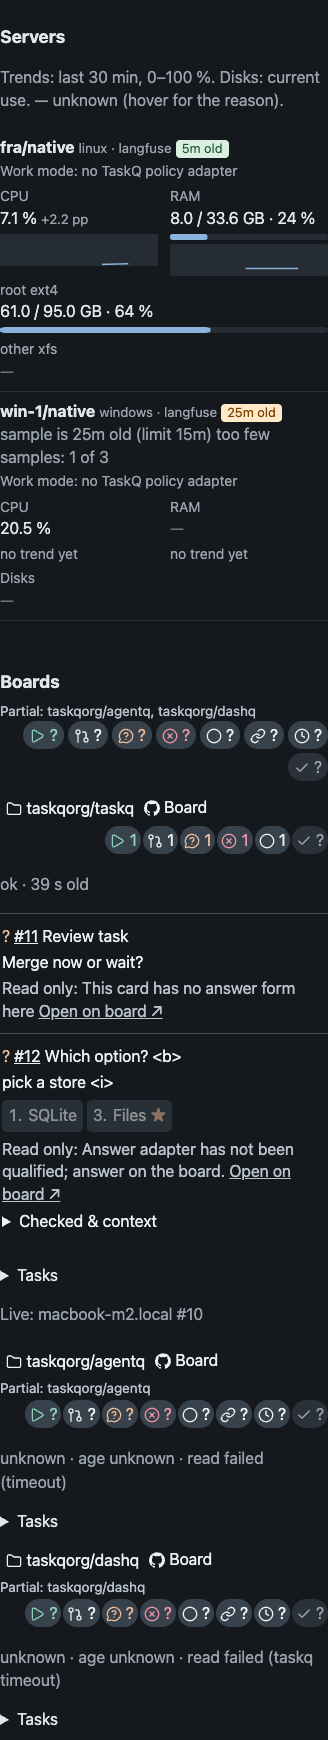
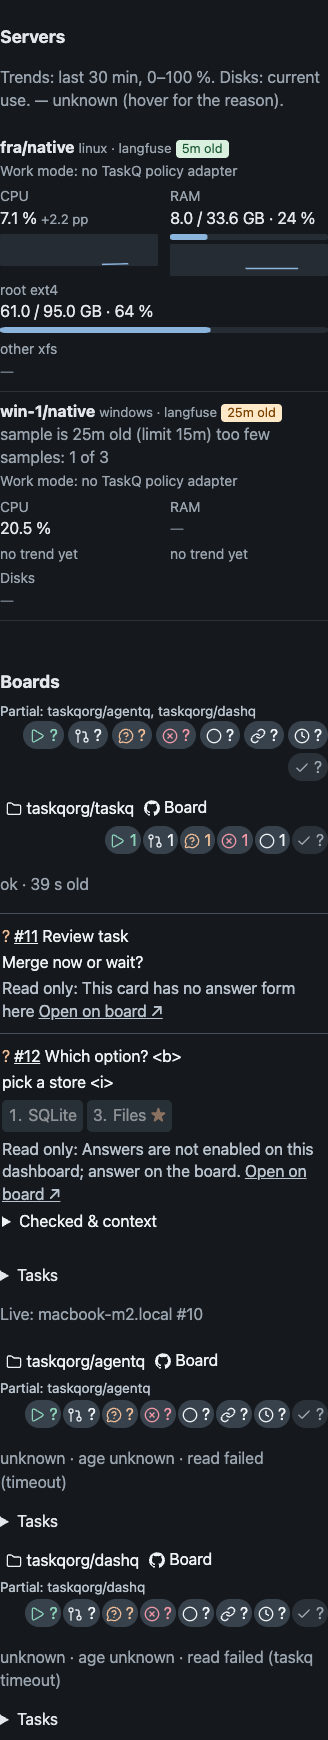
Answers: qualify shared card against real TaskQ board (#120)
Task: https://github.com/taskqorg/dashq/issues/44

Changed region(s): [[0.0305, 0.6517, 0.9451, 0.6828]]

diff --git a/fixture/page.html b/fixture/page.html
@@ -60,7 +60,7 @@
 <div class="m"><span class="k">RAM</span> <span class="v" id="ram-inst-win" data-n=""><span class="unknown" title="unknown: probe denied">—</span></span><span class="trend none">no trend yet · warmup, 3 real samples needed</span></div>
 <div class="m disks"><div class="disk"><span class="k">Disks</span> <span class="unknown" title="unknown: probe denied">—</span></div></div></article>
 </section>
-<section id="boards" data-boards="[{&quot;project&quot;:&quot;taskqorg/taskq&quot;,&quot;url&quot;:&quot;https://github.com/taskqorg/taskq/issues&quot;,&quot;source&quot;:{&quot;state&quot;:&quot;ok&quot;,&quot;at&quot;:1791875100,&quot;age_s&quot;:39,&quot;reason&quot;:null,&quot;incomplete&quot;:false},&quot;adapter&quot;:&quot;taskq-snapshot&quot;,&quot;in_work&quot;:2,&quot;waiting&quot;:1,&quot;ready&quot;:1,&quot;questions&quot;:[{&quot;id&quot;:&quot;https://github.com/taskqorg/taskq/issues/11&quot;,&quot;number&quot;:11,&quot;title&quot;:&quot;Review task&quot;,&quot;url&quot;:&quot;https://github.com/taskqorg/taskq/issues/11&quot;,&quot;state&quot;:&quot;review&quot;,&quot;revision&quot;:6139993901,&quot;parsed&quot;:false,&quot;done&quot;:null,&quot;text&quot;:&quot;Merge now or wait?&quot;,&quot;choices&quot;:[],&quot;recommended&quot;:null,&quot;free_text&quot;:false},{&quot;id&quot;:&quot;https://github.com/taskqorg/taskq/issues/12&quot;,&quot;number&quot;:12,&quot;title&quot;:&quot;Which option? &lt;b&gt;&quot;,&quot;url&quot;:&quot;https://github.com/taskqorg/taskq/issues/12&quot;,&quot;state&quot;:&quot;ask&quot;,&quot;revision&quot;:6139994000,&quot;parsed&quot;:true,&quot;done&quot;:&quot;checked&quot;,&quot;text&quot;:&quot;pick a store &lt;i&gt;&quot;,&quot;choices&quot;:[{&quot;k&quot;:1,&quot;text&quot;:&quot;SQLite&quot;,&quot;unavailable&quot;:null},{&quot;k&quot;:3,&quot;text&quot;:&quot;Files&quot;,&quot;unavailable&quot;:null}],&quot;recommended&quot;:3,&quot;free_text&quot;:true}],&quot;failed&quot;:[{&quot;number&quot;:14,&quot;title&quot;:&quot;Broken task&quot;,&quot;url&quot;:&quot;https://github.com/taskqorg/taskq/issues/14&quot;,&quot;reason&quot;:&quot;Reason: CI &lt;red&gt; on every runner&quot;}],&quot;attempts&quot;:[{&quot;host&quot;:&quot;macbook-m2.local&quot;,&quot;task&quot;:10,&quot;attempt&quot;:&quot;6139993856&quot;}],&quot;latest&quot;:&quot;4.2.0&quot;,&quot;counts&quot;:{&quot;closed&quot;:null,&quot;doing&quot;:1,&quot;review&quot;:1,&quot;ask&quot;:1,&quot;failed&quot;:1,&quot;ready&quot;:1,&quot;waiting&quot;:0,&quot;later&quot;:0},&quot;tasks&quot;:[{&quot;n&quot;:10,&quot;title&quot;:&quot;Doing task&quot;,&quot;url&quot;:&quot;https://github.com/taskqorg/taskq/issues/10&quot;,&quot;state&quot;:&quot;doing&quot;,&quot;revision&quot;:6139993856,&quot;question&quot;:null,&quot;card&quot;:null},{&quot;n&quot;:11,&quot;title&quot;:&quot;Review task&quot;,&quot;url&quot;:&quot;https://github.com/taskqorg/taskq/issues/11&quot;,&quot;state&quot;:&quot;review&quot;,&quot;revision&quot;:6139993901,&quot;question&quot;:{&quot;parsed&quot;:false,&quot;text&quot;:&quot;Merge now or wait?&quot;,&quot;done&quot;:null,&quot;problem&quot;:null,&quot;evidence&quot;:[],&quot;choices&quot;:[]},&quot;card&quot;:&quot;Merge now or wait?&quot;},{&quot;n&quot;:12,&quot;title&quot;:&quot;Which option? &lt;b&gt;&quot;,&quot;url&quot;:&quot;https://github.com/taskqorg/taskq/issues/12&quot;,&quot;state&quot;:&quot;ask&quot;,&quot;revision&quot;:6139994000,&quot;question&quot;:{&quot;parsed&quot;:true,&quot;text&quot;:&quot;Done: checked\nProblem: pick a store &lt;i&gt;\n1. SQLite\n3. Files ★&quot;,&quot;done&quot;:&quot;checked&quot;,&quot;problem&quot;:&quot;pick a store &lt;i&gt;&quot;,&quot;evidence&quot;:[],&quot;choices&quot;:[{&quot;id&quot;:1,&quot;text&quot;:&quot;SQLite&quot;,&quot;recommended&quot;:false,&quot;consequential&quot;:false},{&quot;id&quot;:3,&quot;text&quot;:&quot;Files&quot;,&quot;recommended&quot;:true,&quot;consequential&quot;:false}]},&quot;card&quot;:&quot;Done: checked\nProblem: pick a store &lt;i&gt;\n1. SQLite\n3. Files ★&quot;},{&quot;n&quot;:13,&quot;title&quot;:&quot;Ready task&quot;,&quot;url&quot;:&quot;https://github.com/taskqorg/taskq/issues/13&quot;,&quot;state&quot;:&quot;ready&quot;,&quot;revision&quot;:6139994100,&quot;question&quot;:null,&quot;card&quot;:null},{&quot;n&quot;:14,&quot;title&quot;:&quot;Broken task&quot;,&quot;url&quot;:&quot;https://github.com/taskqorg/taskq/issues/14&quot;,&quot;state&quot;:&quot;failed&quot;,&quot;revision&quot;:6139994200,&quot;question&quot;:null,&quot;card&quot;:null}]},{&quot;project&quot;:&quot;taskqorg/agentq&quot;,&quot;url&quot;:&quot;https://github.com/taskqorg/agentq/issues&quot;,&quot;source&quot;:{&quot;state&quot;:&quot;unknown&quot;,&quot;at&quot;:null,&quot;age_s&quot;:null,&quot;reason&quot;:&quot;read failed (timeout)&quot;,&quot;incomplete&quot;:false},&quot;adapter&quot;:&quot;taskq-labels&quot;,&quot;in_work&quot;:null,&quot;waiting&quot;:null,&quot;ready&quot;:null,&quot;questions&quot;:[],&quot;failed&quot;:[],&quot;attempts&quot;:[],&quot;latest&quot;:&quot;0.4.17&quot;,&quot;counts&quot;:{&quot;closed&quot;:null,&quot;doing&quot;:null,&quot;review&quot;:null,&quot;ask&quot;:null,&quot;failed&quot;:null,&quot;ready&quot;:null,&quot;waiting&quot;:null,&quot;later&quot;:null},&quot;tasks&quot;:[]},{&quot;project&quot;:&quot;taskqorg/dashq&quot;,&quot;url&quot;:&quot;https://github.com/taskqorg/dashq/issues&quot;,&quot;source&quot;:{&quot;state&quot;:&quot;unknown&quot;,&quot;at&quot;:null,&quot;age_s&quot;:null,&quot;reason&quot;:&quot;read failed (taskq timeout)&quot;,&quot;incomplete&quot;:false},&quot;adapter&quot;:&quot;taskq-snapshot&quot;,&quot;in_work&quot;:null,&quot;waiting&quot;:null,&quot;ready&quot;:null,&quot;questions&quot;:[],&quot;failed&quot;:[],&quot;attempts&quot;:[],&quot;latest&quot;:null,&quot;counts&quot;:{&quot;closed&quot;:null,&quot;doing&quot;:null,&quot;review&quot;:null,&quot;ask&quot;:null,&quot;failed&quot;:null,&quot;ready&quot;:null,&quot;waiting&quot;:null,&quot;later&quot;:null},&quot;tasks&quot;:[]}]"><h2>Boards</h2><div class="board-blocks"></div><div class="board-fallback">
+<section id="boards" data-boards="[{&quot;project&quot;:&quot;taskqorg/taskq&quot;,&quot;url&quot;:&quot;https://github.com/taskqorg/taskq/issues&quot;,&quot;source&quot;:{&quot;state&quot;:&quot;ok&quot;,&quot;at&quot;:1791875100,&quot;age_s&quot;:39,&quot;reason&quot;:null,&quot;incomplete&quot;:false},&quot;adapter&quot;:&quot;taskq-snapshot&quot;,&quot;in_work&quot;:2,&quot;waiting&quot;:1,&quot;ready&quot;:1,&quot;questions&quot;:[{&quot;id&quot;:&quot;https://github.com/taskqorg/taskq/issues/11&quot;,&quot;number&quot;:11,&quot;title&quot;:&quot;Review task&quot;,&quot;url&quot;:&quot;https://github.com/taskqorg/taskq/issues/11&quot;,&quot;state&quot;:&quot;review&quot;,&quot;revision&quot;:6139993901,&quot;parsed&quot;:false,&quot;done&quot;:null,&quot;text&quot;:&quot;Merge now or wait?&quot;,&quot;choices&quot;:[],&quot;recommended&quot;:null,&quot;free_text&quot;:false},{&quot;id&quot;:&quot;https://github.com/taskqorg/taskq/issues/12&quot;,&quot;number&quot;:12,&quot;title&quot;:&quot;Which option? &lt;b&gt;&quot;,&quot;url&quot;:&quot;https://github.com/taskqorg/taskq/issues/12&quot;,&quot;state&quot;:&quot;ask&quot;,&quot;revision&quot;:6139994000,&quot;parsed&quot;:true,&quot;done&quot;:&quot;checked&quot;,&quot;text&quot;:&quot;pick a store &lt;i&gt;&quot;,&quot;choices&quot;:[{&quot;k&quot;:1,&quot;text&quot;:&quot;SQLite&quot;,&quot;unavailable&quot;:null},{&quot;k&quot;:3,&quot;text&quot;:&quot;Files&quot;,&quot;unavailable&quot;:null}],&quot;recommended&quot;:3,&quot;free_text&quot;:true}],&quot;failed&quot;:[{&quot;number&quot;:14,&quot;title&quot;:&quot;Broken task&quot;,&quot;url&quot;:&quot;https://github.com/taskqorg/taskq/issues/14&quot;,&quot;reason&quot;:&quot;Reason: CI &lt;red&gt; on every runner&quot;}],&quot;attempts&quot;:[{&quot;host&quot;:&quot;macbook-m2.local&quot;,&quot;task&quot;:10,&quot;attempt&quot;:&quot;6139993856&quot;}],&quot;latest&quot;:&quot;4.2.0&quot;,&quot;counts&quot;:{&quot;closed&quot;:null,&quot;doing&quot;:1,&quot;review&quot;:1,&quot;ask&quot;:1,&quot;failed&quot;:1,&quot;ready&quot;:1,&quot;waiting&quot;:0,&quot;later&quot;:0},&quot;tasks&quot;:[{&quot;n&quot;:10,&quot;title&quot;:&quot;Doing task&quot;,&quot;url&quot;:&quot;https://github.com/taskqorg/taskq/issues/10&quot;,&quot;state&quot;:&quot;doing&quot;,&quot;revision&quot;:6139993856,&quot;question&quot;:null,&quot;card&quot;:null},{&quot;n&quot;:11,&quot;title&quot;:&quot;Review task&quot;,&quot;url&quot;:&quot;https://github.com/taskqorg/taskq/issues/11&quot;,&quot;state&quot;:&quot;review&quot;,&quot;revision&quot;:6139993901,&quot;question&quot;:{&quot;parsed&quot;:false,&quot;text&quot;:&quot;Merge now or wait?&quot;,&quot;done&quot;:null,&quot;problem&quot;:null,&quot;evidence&quot;:[],&quot;choices&quot;:[]},&quot;card&quot;:&quot;Merge now or wait?&quot;},{&quot;n&quot;:12,&quot;title&quot;:&quot;Which option? &lt;b&gt;&quot;,&quot;url&quot;:&quot;https://github.com/taskqorg/taskq/issues/12&quot;,&quot;state&quot;:&quot;ask&quot;,&quot;revision&quot;:6139994000,&quot;question&quot;:{&quot;parsed&quot;:true,&quot;text&quot;:&quot;Done: checked\nProblem: pick a store &lt;i&gt;\n1. SQLite\n3. Files ★&quot;,&quot;done&quot;:&quot;checked&quot;,&quot;problem&quot;:&quot;pick a store &lt;i&gt;&quot;,&quot;evidence&quot;:[],&quot;choices&quot;:[{&quot;id&quot;:1,&quot;text&quot;:&quot;SQLite&quot;,&quot;recommended&quot;:false,&quot;consequential&quot;:false},{&quot;id&quot;:3,&quot;text&quot;:&quot;Files&quot;,&quot;recommended&quot;:true,&quot;consequential&quot;:false}],&quot;limits&quot;:{&quot;lines&quot;:4,&quot;chars&quot;:240}},&quot;card&quot;:&quot;Done: checked\nProblem: pick a store &lt;i&gt;\n1. SQLite\n3. Files ★&quot;},{&quot;n&quot;:13,&quot;title&quot;:&quot;Ready task&quot;,&quot;url&quot;:&quot;https://github.com/taskqorg/taskq/issues/13&quot;,&quot;state&quot;:&quot;ready&quot;,&quot;revision&quot;:6139994100,&quot;question&quot;:null,&quot;card&quot;:null},{&quot;n&quot;:14,&quot;title&quot;:&quot;Broken task&quot;,&quot;url&quot;:&quot;https://github.com/taskqorg/taskq/issues/14&quot;,&quot;state&quot;:&quot;failed&quot;,&quot;revision&quot;:6139994200,&quot;question&quot;:null,&quot;card&quot;:null}]},{&quot;project&quot;:&quot;taskqorg/agentq&quot;,&quot;url&quot;:&quot;https://github.com/taskqorg/agentq/issues&quot;,&quot;source&quot;:{&quot;state&quot;:&quot;unknown&quot;,&quot;at&quot;:null,&quot;age_s&quot;:null,&quot;reason&quot;:&quot;read failed (timeout)&quot;,&quot;incomplete&quot;:false},&quot;adapter&quot;:&quot;taskq-labels&quot;,&quot;in_work&quot;:null,&quot;waiting&quot;:null,&quot;ready&quot;:null,&quot;questions&quot;:[],&quot;failed&quot;:[],&quot;attempts&quot;:[],&quot;latest&quot;:&quot;0.4.17&quot;,&quot;counts&quot;:{&quot;closed&quot;:null,&quot;doing&quot;:null,&quot;review&quot;:null,&quot;ask&quot;:null,&quot;failed&quot;:null,&quot;ready&quot;:null,&quot;waiting&quot;:null,&quot;later&quot;:null},&quot;tasks&quot;:[]},{&quot;project&quot;:&quot;taskqorg/dashq&quot;,&quot;url&quot;:&quot;https://github.com/taskqorg/dashq/issues&quot;,&quot;source&quot;:{&quot;state&quot;:&quot;unknown&quot;,&quot;at&quot;:null,&quot;age_s&quot;:null,&quot;reason&quot;:&quot;read failed (taskq timeout)&quot;,&quot;incomplete&quot;:false},&quot;adapter&quot;:&quot;taskq-snapshot&quot;,&quot;in_work&quot;:null,&quot;waiting&quot;:null,&quot;ready&quot;:null,&quot;questions&quot;:[],&quot;failed&quot;:[],&quot;attempts&quot;:[],&quot;latest&quot;:null,&quot;counts&quot;:{&quot;closed&quot;:null,&quot;doing&quot;:null,&quot;review&quot;:null,&quot;ask&quot;:null,&quot;failed&quot;:null,&quot;ready&quot;:null,&quot;waiting&quot;:null,&quot;later&quot;:null},&quot;tasks&quot;:[]}]"><h2>Boards</h2><div class="board-blocks"></div><div class="board-fallback">
 <p><a href="https://github.com/taskqorg/taskq/issues">taskqorg/taskq</a> · Shared TaskQ blocks require JavaScript.</p>
 <p><a href="https://github.com/taskqorg/taskq/issues/11">#11</a> Review task · Merge now or wait?</p>
 <p><a href="https://github.com/taskqorg/taskq/issues/12">#12</a> Which option? &lt;b&gt; · pick a store &lt;i&gt;</p>

diff --git a/assets/boards.js b/assets/boards.js
@@ -6,6 +6,29 @@ const questionId = (name, n) => boardId(name) + '-q-' + n;
 // DashQ board rows -> TaskQ project model; a failed or incomplete read is partial, so counters read `?`.
 const boardProjects = boards => boards.map(b => ({id: b.project, name: b.project, board: {kind: 'github', url: b.url},
   complete: b.source.state === 'ok' && !b.source.incomplete && Array.isArray(b.tasks), closed: b.counts.closed, tasks: b.tasks || []}));
+// answers.md Route (#41): the server decides per board and account. GET /answer?board= returns a CSRF token when
+// this account may answer there, else the reason (503 while the deployment has no `answer` config). Read once per page.
+const answerAccess = new Map();
+const answerCapability = board => {
+  const a = answerAccess.get(board);
+  return a && a.csrf ? {answer: true} : {answer: false, reason: a ? a.reason : 'Checking answer access…'};
+};
+function answerAccessLoad(board) {
+  if (answerAccess.has(board)) return;
+  answerAccess.set(board, {reason: 'Checking answer access…'});
+  fetch('/answer?board=' + encodeURIComponent(board), {credentials: 'same-origin'})
+    .then(r => r.json().then(v => r.ok && v.csrf ? {csrf: v.csrf} : {reason: (v.reason || 'Answers unavailable') + '; answer on the board.'}))
+    .catch(e => ({reason: 'Answer access unknown (' + e.message + '); answer on the board.'}))
+    .then(a => { answerAccess.set(board, a); for (const c of boardCards.values()) if (c.board === board) c.widget.update(c.rows); });
+}
+// One TaskQ operation as the route's form; the receipt's `outcome` is the card state. A lost or unreadable reply
+// rejects, so the card shows unknown and its retry resends the same op_id and payload.
+async function answerSend(board, op) {
+  const f = new URLSearchParams({board, csrf: answerAccess.get(board).csrf, task: op.task, revision: op.revision, op_id: op.id});
+  if (op.choice != null) f.set('choice', op.choice); else f.set('text', op.text);
+  const v = await (await fetch('/answer', {method: 'POST', body: f, credentials: 'same-origin'})).json();
+  return {state: v.outcome, reason: v.reason, next: v.next};
+}
 function controlKey(e) {
   const d = e.dataset;
   if (d.tqp) return d.tqp + (d.state ? '-' + d.state : '');
@@ -63,17 +86,18 @@ function renderBoards() {
         if (!card) {
           const el = document.createElement('div');
           el.id = id;
-          card = {el, widget: TaskqAnswerCard.mount(el, {
-            capability: () => ({answer: false, reason: card.source.state === 'ok'
-              ? 'Answer adapter has not been qualified; answer on the board.'
-              : 'Board observation ' + card.source.state + ': ' + (card.source.reason || 'current revision unavailable') + '; answer on the board.'}),
-            send: () => Promise.reject(new Error('Answering is disabled'))
+          card = {el, board: p.id, widget: TaskqAnswerCard.mount(el, {
+            capability: board => card.source.state === 'ok' && !card.source.incomplete ? answerCapability(board)
+              : {answer: false, reason: 'Board observation ' + card.source.state + ': ' + (card.source.reason || 'current revision unavailable') + '; answer on the board.'},
+            send: answerSend
           })};
           boardCards.set(id, card);
         }
         card.source = b.source;
         wrap.append(card.el);
-        card.widget.update([{board: p.id, row}]);
+        card.rows = [{board: p.id, row}];
+        card.widget.update(card.rows);
+        answerAccessLoad(p.id);
       }
       if (boardFilter && (!boardFilter.project || boardFilter.project === p.id) && row.state !== boardFilter.state) continue;
       const el = document.createElement('div');

diff --git a/src/main.rs b/src/main.rs
@@ -657,6 +657,13 @@ mod tests {
         assert!(out.status.success(), "{}{}", String::from_utf8_lossy(&out.stdout), String::from_utf8_lossy(&out.stderr));
     }
 
+    // Chain D13 live gate (#44): the live board run stops before any write on a failed guard or prerequisite.
+    #[test]
+    fn answer_live_gate_stops_before_writes() {
+        let out = std::process::Command::new("node").arg("tests/answer-live-stub.cjs").current_dir(env!("CARGO_MANIFEST_DIR")).output().expect("node is required for the answer live gate");
+        assert!(out.status.success(), "{}{}", String::from_utf8_lossy(&out.stdout), String::from_utf8_lossy(&out.stderr));
+    }
+
     #[test]
     fn fixture_rendering_is_pinned() {
         let html = fixture_html();

diff --git a/docs/design/answers.md b/docs/design/answers.md
@@ -43,6 +43,14 @@ Before enabling production writes, qualify an authorized test task on the real b
 
 The browser loads the unchanged answer-card and project-blocks assets from the same-origin app/style responses. `assets/taskq/provenance.json` records the owner-approved source commit and SHA-256 per file, not a published release. `boards.tasks` preserves canonical row/question identity, choices, evidence and limits. Label-only rows have no parsed question and no answer capability. Source freshness remains beside each block. Navigation counters filter observed rows; Closed remains unknown.
 
-Attention opens the single Boards card. The board container and component instances survive page refresh; the canonical component owns revision-bound drafts. This consumer always supplies `answer: false` until #44 qualifies the real adapter; no tray management capability or answer request is added. Static `--snapshot` remains script-free with source and issue links; browser evidence is required for the shared UI.
+Attention opens the single Boards card. The board container and component instances survive page refresh; the canonical component owns revision-bound drafts. No tray management capability is added. Static `--snapshot` remains script-free with source and issue links; browser evidence is required for the shared UI.
 
-Checks: `node tests/boards.cjs` (in `cargo test`) replays the shared card fixtures, verifies the pinned checksums and the counter order, zero hiding, unknown `?`, quiet Closed and partial aggregate. `tests/boards-browser.cjs` (Chrome + Playwright, release/visual check) asserts the same counters in the page, provider icon contrast, Attention navigation, counter filtering and three refreshes keeping focus, scroll, disclosures and card instances; its [screenshots](evidence/boards/) cover 1024/360 px at 16/20 px in both themes and a narrow long-text fixture.
+## Browser answers and live qualification (#44)
+
+The card's capability comes from the route, never from the page: on the first question of a board the page reads `GET /answer?board=` once. A CSRF token enables answering; any refusal (503 without `answer` config, 401, 403, 404, unreadable reply) keeps the card read-only with that reason plus "answer on the board". The card's operation becomes the route's form (`board`, `csrf`, `task`, `revision`, `op_id`, `choice` or `text`) and the receipt's `outcome` its state. A reply that is not a receipt (lost, proxy error page) shows `unknown`; Check delivery resends the same `op_id` and payload. Counters change only with the next snapshot.
+
+So configuring `answer` on a deployment turns the browser write path on; that config stays off production until the live run below passes. Enable: put the dedicated token file (0600), `answer.boards` and the subjects' `dashq answerer WORKSPACE SUBJECT on` in place, then restart. Rollback: remove `answer` from the config and restart (cards turn read-only at once); `dashq answerer ... off` revokes one account. Neither touches stored receipts or the board.
+
+Live run (owner-authorized test task in `ask`, run on the host as its administrator): `tests/answer-live.cjs` drives the loopback listener with `X-Dashq-Subject`. Before any POST it records the versions and stops on a mismatch: `dashq version` and SHA-256 of `DASHQ_BIN`, this checkout's commit, SHA-256 of the pinned `TASKQ_BIN` with the version its `service status` reports, which the binary must carry and every board taskq heartbeat must match while fresh (no heartbeat, a stale or last-known row, an unknown or other version stops the run), and the component pin, whose JS/CSS files must match `provenance.json` and appear verbatim in the served `/app.js` and `/style.css`. Then refusal probes: missing subject 401, unmapped subject 403, cross-site Origin 403, wrong CSRF 403, unconfigured board 404, another workspace's board refused, revoked identity 403 (`dashq answerer` off, then on) and stale revision 409. Each probe carries a stale revision and its own op ID, so a broken guard yields 409 and still writes nothing. Then a double click (same op ID twice at once: one write), a lost-reply retry (same receipt), the same op ID with another payload refused (409), board readback past the answered revision and, with `GH=1`, exactly one board entry carrying the op ID. The first failed check stops the run. A check whose input is unset (`OTHER_SUBJECT`, `OTHER_BOARD`, `WORKSPACE`, `GH`) reads `not run` and the result is `incomplete` (exit 2), never `qualified` (exit 0); a failure exits 1. Run it once with `CHOICE=K` and once with `TEXT=..` on a re-asked question; it prints one JSON record (versions, component, revisions, receipts, checks, result) for the task. Still by hand on the deployment: a read-only token file (answer refused or unknown, no entry), Origin/CSRF through the real proxy, 16/20 px draft and focus in both themes, and unrelated tasks unchanged. `node tests/answer-live-stub.cjs` (in `cargo test`) runs the script against stub servers: a broken guard stops at the first probe with nothing written, a missing binary, missing, stale, unknown or mismatched TaskQ version evidence, or a served component that differs from the pin sends no POST, a correct deployment qualifies with one write per path, and unset inputs give `incomplete`. The real board run is pending.
+
+Checks: `node tests/boards.cjs` (in `cargo test`) replays the shared card fixtures, verifies the pinned checksums and the counter order, zero hiding, unknown `?`, quiet Closed and partial aggregate. `tests/boards-browser.cjs` (Chrome + Playwright, release/visual check) asserts the same counters in the page, provider icon contrast, Attention navigation, counter filtering, three refreshes keeping focus, scroll, disclosures and card instances, and the answer route against a recorded stub (choice, free text, lost reply retried with the same operation, stale keeping the draft); its [screenshots](evidence/boards/) cover 1024/360 px at 16/20 px in both themes and a narrow long-text fixture.
